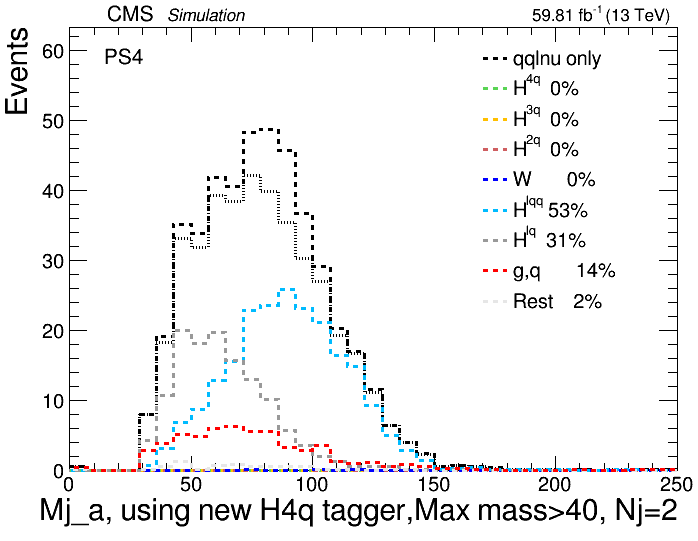
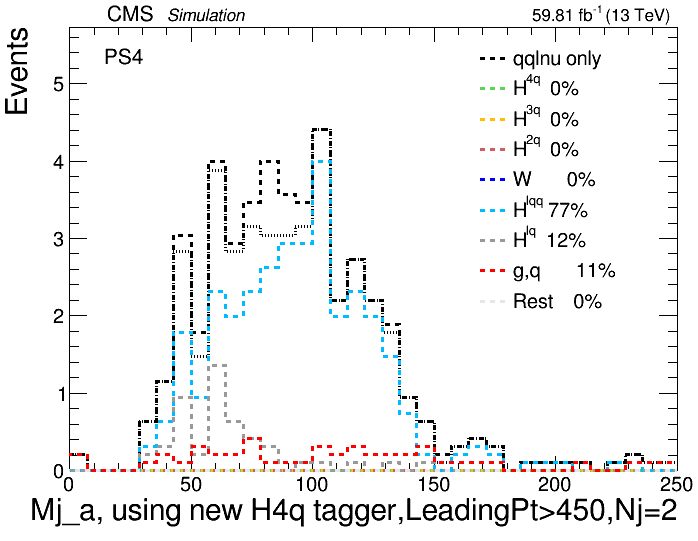
Add Pt 450

diff --git a/Makeplots_HWW_Nj2_OverData.py b/Makeplots_HWW_Nj2_OverData.py
@@ -179,8 +179,8 @@ class ANALYSIS:
             #self.construct_plot(Nj, "JetMass_Nj2_c"    ,selection          ,"",tag  ,50, 0 ,60,"Mj_c, Nj=2"                        ,"Events" ,logy,CR);             
             #self.construct_plot(Nj, "JetMass_Nj2_a"    ,selection          ,"",tag  ,50, 0 ,250,"Mj_a, Nj=2"                        ,"Events" ,logy,CR);             
             #self.construct_plot(Nj, "JetMass_Nj2_c"    ,selection          ,"",tag  ,50, 0 ,250,"Mj_c, Nj=2"                        ,"Events" ,logy,CR);             
-            self.construct_plot(Nj, "JetMass_Nj2_a_new"    ,selection          ,"",tag  ,35, 0 ,250,"Mj_a, using new H4q tagger,Max mass>40, Nj=2"                        ,"Events" ,logy,CR);             
-            self.construct_plot(Nj, "JetMass_Nj2_c_new"    ,selection          ,"",tag  ,35, 0 ,250,"Mj_c, using new H4q tagger,Max mass>40, Nj=2"                        ,"Events" ,logy,CR);             
+            self.construct_plot(Nj, "JetMass_Nj2_a_new"    ,selection          ,"",tag  ,35, 0 ,250,"Mj_a, using new H4q tagger,LeadingPt>450,Nj=2"                        ,"Events" ,logy,CR);             
+            self.construct_plot(Nj, "JetMass_Nj2_c_new"    ,selection          ,"",tag  ,35, 0 ,250,"Mj_c, using new H4q tagger,LeadingPt>450,Nj=2"                        ,"Events" ,logy,CR);             
             #self.construct_plot(Nj, "MET_pt/Pt_Nj2_a_new"    ,selection          ,"",tag  ,20, 0 ,1,"MET/PT_Higgs, using new H4q tagger order,Nj=2"                        ,"Events" ,logy,CR);  
             #self.construct_plot(Nj, "MET_pt/(Pt_Nj2_a_new+Pt_Nj2_c_new)**0.5"    ,selection          ,"",tag  ,20, 0 ,10,"MET Significance"                        ,"Events" ,logy,CR);  
                                  
@@ -344,7 +344,7 @@ class ANALYSIS:
         #if options.y=="17"      :path="/eos/user/y/yusong/qilong/NTuple_Output/17/all/Tree/mu";  lumi= 41.5;
         #if options.y=="18"      :path="/eos/user/y/yuzhe/HWW/frame/Custom/Tree/NoSelection/";  lumi=59.81;
         #if options.y=="18"      :path="/eos/user/y/yuzhe/HWW/frame/Custom/Tree/NjAbove2/";  lumi=59.81;
-        if options.y=="18"      :path="/eos/user/y/yuzhe/HWW/frame/Custom/Tree/MassAbove40/";  lumi=59.81;
+        if options.y=="18"      :path="/eos/user/y/yuzhe/HWW/frame/Custom/Tree/PtAbove/";  lumi=59.81;
         #if options.y=="16,17,18":path="/eos/cms/store/user/.........;  lumi=138;
 
         #====== DEFINE CANVAS ==========================
@@ -368,7 +368,7 @@ class ANALYSIS:
         #t_Signal1 = TChain("NewTree");  t_Signal1.Add(path+ "NewTagger_Nj2_2q.root");  h_Signal1=TH1D("h_Signal1","h_Signal1"+";%s;%s"%(xtitle,ytitle),nbin,min,max);  h_Signal1.Sumw2();
         #t_Signal1 = TChain("NewTree");  t_Signal1.Add(path+ "NewTagger_Nj2_2q_Mode.root");  h_Signal1=TH1D("h_Signal1","h_Signal1"+";%s;%s"%(xtitle,ytitle),nbin,min,max);  h_Signal1.Sumw2();
         #t_Signal1 = TChain("NewTree");  t_Signal1.Add(path+ "2q_NoSelection.root");  h_Signal1=TH1D("h_Signal1","h_Signal1"+";%s;%s"%(xtitle,ytitle),nbin,min,max);  h_Signal1.Sumw2();
-        t_Signal1 = TChain("NewTree");  t_Signal1.Add(path+ "2q_AddMass.root");  h_Signal1=TH1D("h_Signal1","h_Signal1"+";%s;%s"%(xtitle,ytitle),nbin,min,max);  h_Signal1.Sumw2();
+        t_Signal1 = TChain("NewTree");  t_Signal1.Add(path+ "2q_AddPt.root");  h_Signal1=TH1D("h_Signal1","h_Signal1"+";%s;%s"%(xtitle,ytitle),nbin,min,max);  h_Signal1.Sumw2();
         
         # t_Signal1 = TChain("NewTree");  t_Signal1.Add(path+"Signal/HWW2q_PS.root");  h_Signal1=TH1D("h_Signal1","h_Signal1"+";%s;%s"%(xtitle,ytitle),nbin,min,max);  h_Signal1.Sumw2();
         t_Signal2 = TChain("NewTree"); t_Signal2.Add(path + "NewTagger_Nj2_4q.root"); h_Signal2 = TH1D("h_Signal2", "h_Signal2" + ";%s;%s" % (xtitle, ytitle), nbin, min, max); h_Signal2.Sumw2();
